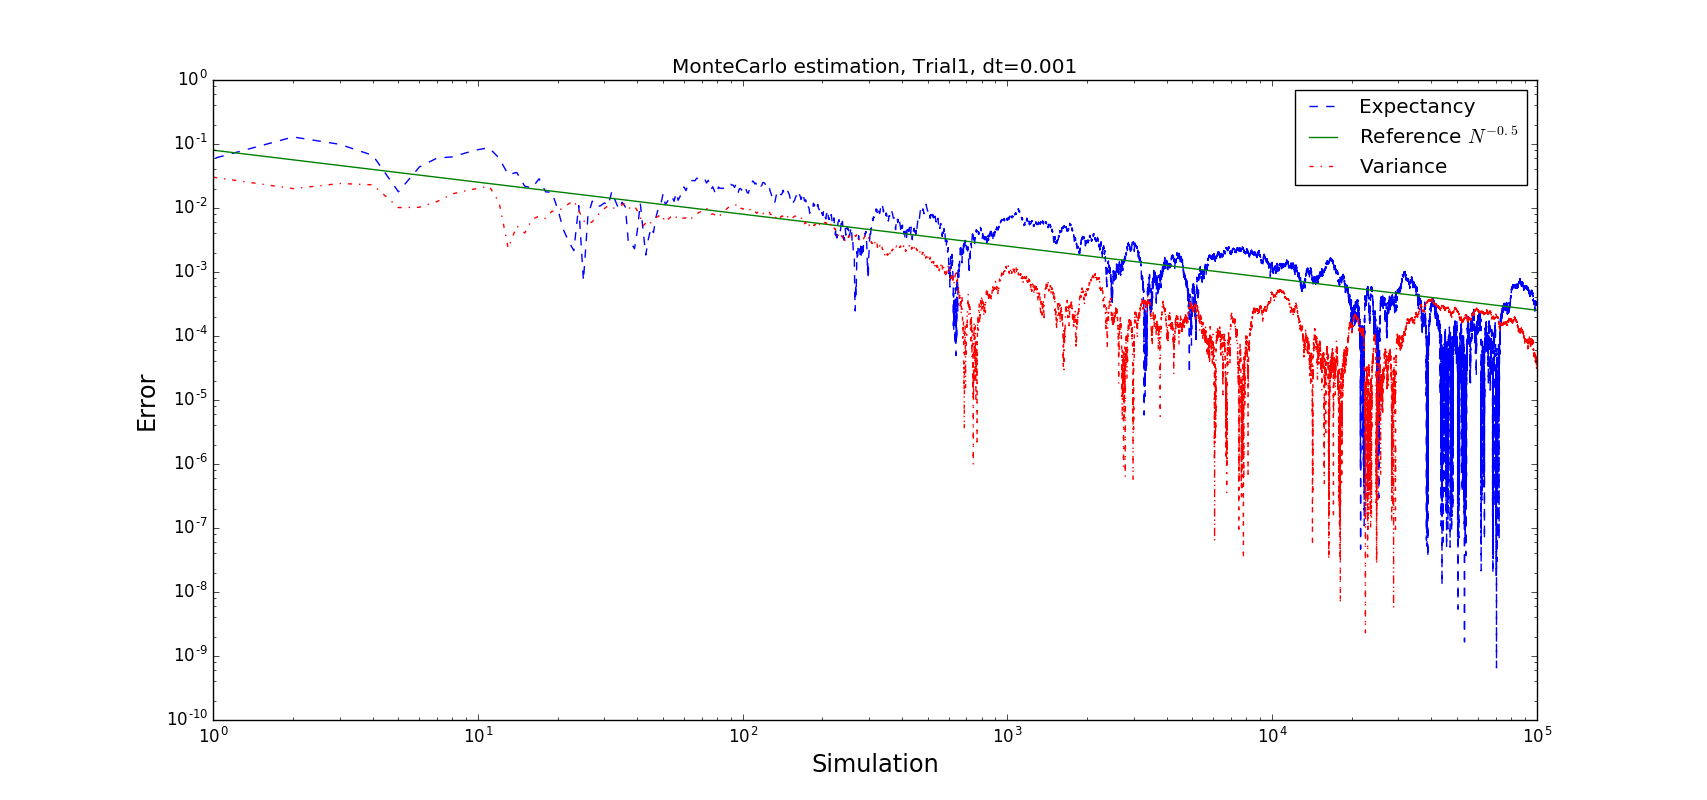
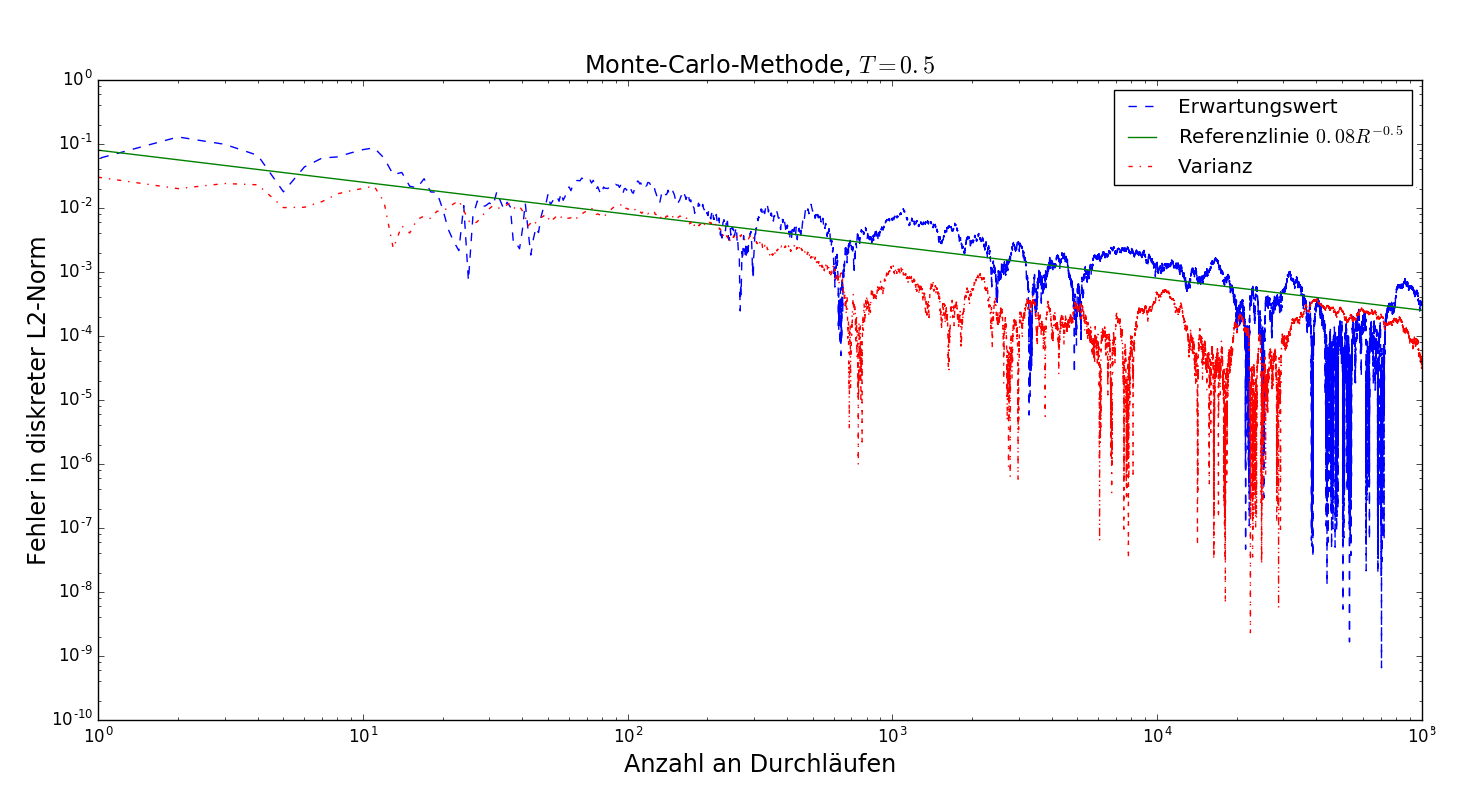
Started explaining fft and wave solver

diff --git a/thesis/tex/Chapters/Chapter1.tex b/thesis/tex/Chapters/Chapter1.tex
@@ -1,7 +1,7 @@
 % Chapter 1
 
 \chapter{Einführung}
-In diesem Kapitel werden wir die zu untersuchende Klein-Gordon-Gleichung (KGG) vorstellen und uns mit den zugehörigen häufig verwendeten Parametern vertraut machen. Anschließend gewinnen wir einen numerischen Lösungsansatz aus der Idee des Operatorsplittings. Um dann später die Zufallsabhängigkeit einführen zu können, benötigen wir die Theorie des General Polynomial Chaos. Die in dieser Arbeit untersuchte \emph{uncertainty} in Gestalt von Zufallsvariablen wird allerdings erst in den folgenden Kapiteln in die KGG einfließen.
+In diesem Kapitel werden wir die zu untersuchende Klein-Gordon-Gleichung (KGG) vorstellen und uns mit den zugehörigen häufig verwendeten Parametern vertraut machen. Anschließend gewinnen wir einen numerischen Lösungsansatz aus der Idee des Operatorsplittings. Die in dieser Arbeit untersuchte \emph{uncertainty} in Gestalt von Zufallsvariablen wird allerdings erst in den folgenden Kapiteln in die KGG einfließen. Zuletzt beschreibt dieses Kapitel relevante Ergebnisse aus der polynomialen Approximationstheorie und bietet einen ersten Einblick in die Beziehung von orthogonalen Polynomen und stochastischen Verteilungen.
 \label{Chapter1}
 
 \section{Die Klein-Gordon-Gleichung}
@@ -234,23 +234,78 @@ Man verwendet die Darstellung $\varphi_{\deltat}^A(y_0)=y_0+\deltat f^A(y_0)+\ma
 Man beachte hierbei, dass nun $\Phi_{\deltat}^A$ im Gegensatz zu $\varphi_{\deltat}^A$ nicht mehr symmetrisch ist. Die Argumentation über die Ordnung von symmetrischen Verfahren kann also nicht direkt verwendet werden, um $p=2$ für das Strang-Splittings zu begründen. Außerdem kann dies die Möglichkeit, das Strang-Splitting durch Kombination der Halbschritte zu beschleunigen, zunichte machen.
 \end{proof}
 
-\section{Erster Einblick in das Polynomial Chaos}
-\todo[inline]{Diese Einführung erst nachdem wir kurz gesagt haben was Polynomial Chaos eigentlich ist. Vllt auch etwas kürzen? So versteht das jemand beim ersten Mal lesen nicht.}
-Die Entstehung des \emph{general Polynomial Chaos}(gPC) ist eine Geschichte über den Versuch, stochastische Abhängigkeit und Integrationstheorie zu kombinieren. Sie wurzelte in der Arbeit von Wiener (\autocite{norbertwiener1938}), wo er das \emph{homogene Chaos} einführte, um die Entwicklung von Unsicherheit in einem dynamischen, chaotischen, physikalischen System zu konkretisieren. Dies erklärt auch den Ursprung der Bezeichnung "`Chaos"' im Kontext der chaotischen Brownschen Bewegung im Wiener-Prozess.\\
-Ghanem verwendete dann Hermite Polynome um mithilfe dieser Orthogonalbasis gaußsche Prozesse darzustellen. Dies wendete er erfolgreich auf einige Probleme aus den Ingenieurswissenschaften an, ein Überblick wird in (\autocite{GhaSpa91}) gegeben.\\
-Xiu verallgemeinerte in seiner Arbeit (\autocite{xiu2002}) diesen Ansatz auf andere Kombinationen aus Stochastischer Verteilung und Polynombasis. Gemäß dem Askey Schema (siehe Abbildung \ref{askeyscheme}) werden Beziehungen einiger bekannter Polynom Orthonormalbasen verdeutlicht. Man beobachtet außerdem, dass einige Gewichte den Dichtefunktionen von bekannten Verteilungen entsprechen und möchte nun zu einer gegebenen Verteilung die bestmögliche Polynombasis verwenden. An Modellproblemen demonstrierte Xiu jeweils optimale exponentielle Konvergenz für die verschiedenen Paarungen.\\
-\begin{figure}
-\center
-\includegraphics[width=0.8\linewidth]{Figures/askeyscheme.png}
-\caption{Askey Schema; Ein Pfeil symbolisiert den Übergang einer Basis in eine andere durch Grenzwertbildung eines Parameters; Quelle: \autocite{webaskey}}
-\label{askeyscheme}
-\end{figure}
-\begin{mathbsp}[Grenzwertbildung im Askey Schema]
-Es gilt für die Jacobi Polynome $P_n^{(\alpha,\beta)}(x)$ und die Hermite Polynome $H_n(x)$ die Beziehung
-\[\lim\limits_{\alpha\to\infty}\alpha^{-\onehalf n}P_n^{(\alpha,\alpha)}\left(\frac{x}{\sqrt{\alpha}}\right)=\frac{H_n(x)}{2^nn!}\]
-Für eine genauere Betrachtung der Beziehungen der hypergeometrischen Polynome im Askey Schema sei auf \autocite{koekoekswart98} verwiesen.
-\end{mathbsp}
-Im Mittelpunkt der Theorie des gPC stehen orthgonale Polynombasen. Die Verflechtung mit der Stochastik geschieht dann auf natürliche Weise durch die passende Wahl des zugrunde liegenden Skalarproduktes.
+\subsection{Numerischer Löser der KGG}
+\todo[inline]{Erkläre Löser, dazu für wave teil: periodische RB-> Fourier, für linhyp: explizite Lösung; Wie Gleichung in gleichung 1. Ordnung erst umschreiben (weight w); wieso nur stabil für w=1?; zeige verschiedene Kombinationen von RStrang, FStrang,... und zeige Konvergenzordnung p=1 und p=2}
+Dieser Abschnitt ist das wichtige Fundament, auf dem viele numerischen Lösungsverfahren basieren werden. Um ein Operator Splitting auf die KGG anwenden zu können, muss diese zuerst in eine Gleichung mit Zeitableitung erster Ordnung in der Form von (\ref{orddgl}) umgeschrieben werden. Formal:
+\begin{align}
+\dtt{u}(t,x)&=\alpha \Laplace u(t,x) - \beta(x)u(t,x)\nonumber\\
+\iff
+\dt{\begin{pmatrix}
+u\\
+v
+\end{pmatrix}}(t,x)&=
+\begin{pmatrix}
+0 & I\\
+\alpha \Laplace - \beta(x) & 0\\
+\end{pmatrix}
+\begin{pmatrix}u\\v\end{pmatrix}(t,x)\\
+&=\left[\begin{pmatrix} 0 & wI\\ \alpha \Laplace & 0\end{pmatrix} 
++ \begin{pmatrix} 0 & (1-w)I\\ -\beta(x) & 0\end{pmatrix}\right]
+\begin{pmatrix}u\\v\end{pmatrix}(t,x)
+\end{align}
+Doch bevor wir dies als Grundlage für ein Splitting verwenden, müssen wir den Operator $\Laplace$ genauer untersuchen.
+\subsubsection*{Fourier Pseudo-Spectral Methode für Laplace Operator}
+Wir betrachten das Teilproblem der Wellengleichung mit periodischen Randbedingungen auf $(-\pi,\pi)^d$ der Dimension $d\in\N$ und dem Quadrat der Wellengeschwindigkeit $c^2=\alpha>0$
+\begin{equation}
+\label{eqn:waveperiodic}
+\begin{split}
+\dtt{u}(t,x)&=c^2 \Laplace u(t,x), \quad t>0, x\in\Torus^d\\
+u(0,x)&=g(x), \quad x\in\Torus^d\\
+\dt{u}(0,x)&=h(x),\quad x\in\Torus^d\\
+u, \dt{u}&\text{ periodisch in }x
+\end{split}
+\end{equation}
+Im Folgenden zeigen wir eine Darstellung der exakten Lösung von (\ref{eqn:waveperiodic}) für $d=1$.\\
+Es gilt für die Fourier-Approximation von $u$ für jedes $t>0$ und $N\in\N$
+\begin{equation}
+u(t,x)\approx \sum_{k=-N}^N\fourier{u}_k(t)e^{ikx}, \quad x\in\Torus^d
+\end{equation}
+für gewisse Koeffizienten $\fourier{u}_k(t)=\int_{-\pi}^\pi u(t,x)e^{ikx}dx\in\Complex$. Setzen wir die Fourier-Approximation als exakte Lösung der Wellengleichung (\ref{eqn:waveperiodic}) ein, so erhalten wir 
+\[\sum_{k=-N}^N\fourier{u}_k^{\prime\prime}(t)e^{ikx}=c^2\sum_{k=-N}^N-k^2\fourier{u}_k(t)e^{ikx}\]
+Da die $e^{ik\cdot}$ eine Basis bilden müssen wir also für $k=-N,\dots,N$ die gewöhnliche Differentialgleichung
+\begin{align*}
+\fourier{u}_k^{\prime\prime}(t)&=-c^2k^2\fourier{u}_k(t)\\
+\fourier{u}_k(0)&=\fourier{g}_k\\
+\fourier{u}_k^\prime &=\fourier{h}_k
+\end{align*}
+lösen, wobei $\fourier{g}_k$ bzw. $\fourier{h}_k$ der $k$-te Fourier-Koeffizient von $g$ bzw. $h$ ist. Aus der charakteristischen Gleichung folgt für zwei Konstanten $c_{1,k},c_{2,k}$ sofort die allgemeine Lösung 
+\[\fourier{u}_k(t)=c_{1,k}\cos(c|k|t)+c_{2,k}\sin(c|k|t)\]
+und unter Berücksichtigung der Anfangswerte
+\begin{align*}
+\fourier{u}_k(t)&=\fourier{g}_k \cos(c|k|t)+\fourier{h}_kt \sinc(c|k|t)\\
+\fourier{u}^\prime_k(t)&=-c|k|\fourier{g}_k\sin(c|k|t)+\fourier{h}_k\cos(c|k|t)\\
+\end{align*}
+Diese Darstellung ist insbesondere auch für $k=0$ gültig, wo der Fourierkoeffizient linear in $t$ wächst.\\
+Formalisieren wir nun die diskrete Fouriertransformation, die wir verwenden möchten, um eine Approximation an die Fourier-Koeffizienten $\fourier{g}_k$ bzw. $\fourier{h}_k$ zu erhalten.
+\begin{mathdef}[Diskrete Fourier-Transformation]
+Die lineare Abbildung $\mathcal{F}\colon\Complex^N\to\Complex^N$ definiert durch
+\[\mathcal{F}x=\fourier{x},\qquad\text{mit}\quad \fourier{x}_k=\sum_{j=0}^{N-1}e^{-2\pi i\frac{jk}{N}}x_j\]
+heißt diskrete Fourier-Transformation.
+\end{mathdef}
+Diese Form der Darstellung erlaubt eine Berechnung der Abbildung in $\mathcal{O}(N\log N)$ Schritten, bekannt unter dem Namen \emph{Fast Fourier Transform}(fft). Dies ist essentiell, um eine schnelle Berechnung der Lösung der KGG zu gewährleisten. Es gilt $\mathcal{F}_N\overline{\mathcal{F}}_N=NI$ und somit hat die inverse Fourier-Transformation beinahe die selbe Gestalt wie die Fourier-Transformation selbst und kann ebenso schnell berechnet werden.\\[0.2cm]
+Zusammengefasst gilt also für die Lösung von (\ref{eqn:waveperiodic}) an den Stellen $x_j=-\pi+2\pi\frac{j}{2N}\in [-\pi,pi)$ für $j=0,\dots,2N-1$ die Darstellung
+\begin{align*}
+u(t,x_j)&=\mathcal{F}^{-1}\left[\mathcal{F}g\odot \big(\cos(c|k|t)\big)_{k=-N}^N + \mathcal{F}h\odot \big(\sinc(c|k|t)\big)_{k=-N}^N\right]_j\\
+\dt{u}(t,x_j)&=\mathcal{F}^{-1}\left[\mathcal{F}g \odot -c\big(|k|\sin(c|k|t)\big)_{k=-N}^N+\mathcal{F}h\odot \big(\cos(c|k|t)\big)_{k=-N}^N\right]_j
+\end{align*}
+Dabei bedeutet $\odot$ die punktweise Multiplikation der Vektoren. Man beachte, dass die Sortierung der Fourier-Koeffizienten in verschiedenen Programmiersprachen verschiedenen Notationen folgt und entsprechend die Indizierung angepasst werden muss. Beispielsweise gilt für die Python3 Bibliothek \emph{numpy} durch die entsprechende Funktion \emph{numpy.fft.fftfreq(8)*8} die Konvention
+\[[ 0,  1,  2,  3, -4, -3, -2, -1]\]
+wobei Matlab die ähnliche Konvention
+\[[ 0,  1,  2,  3, 4, -3, -2, -1]\]
+verwendet.\\
+Obige Erläuterungen waren für eine räumliche Dimension $d=1$. Will man nun den Ansatz auf mehrere Dimensionen erweitern, so erhält man ein sehr ähnliches Ergebnis.\todo[inline]{Schreibe hin dass vorheriges Ergebnis mit betrag k ersetzt durch sqrt(k1hoch2+...+kdhoch2) gilt, alles andere wie Indizierung und FFT enstprechend auch mehrdimensional.}
+\section{Polynome und Verteilungen}
+Die Theorie des general Polynomial Chaos ist die Grundlage für später vorgestellte Verfahren zum Lösen von der stochastischen Klein-Gordon-Gleichung. Im Mittelpunkt dieser Theorie stehen orthogonale Polynombasen. Die Verflechtung mit der Stochastik geschieht dann auf natürliche Weise durch die passende Wahl des zugrunde liegenden Skalarproduktes.
 \subsection{Orthogonale Polynome}
 Wir beginnen mit grundlegender Notation und Namensgebung um das zentrale Werkzeug der Polynomapproximation festzulegen. Später werden diese Polynome verwendet, um die Zufallsabhängigkeit der auftretenden Funktionen darzustellen, indem das Orthogonalitätsmaß der Dichtefunktion entspricht.
 \begin{mathdef}

diff --git a/thesis/tex/Appendices/AppendixA.tex b/thesis/tex/Appendices/AppendixA.tex
@@ -4,6 +4,23 @@
 
 \label{AppendixA} % For referencing this appendix elsewhere, use \ref{AppendixA}
 
+\section{Geschichtliche Entstehung}
+Die Entstehung des \emph{general Polynomial Chaos}(gPC) ist eine Geschichte über den Versuch, stochastische Abhängigkeit und Integrationstheorie zu kombinieren. Sie wurzelte in der Arbeit von Wiener (\autocite{norbertwiener1938}), wo er das \emph{homogene Chaos} einführte, um die Entwicklung von Unsicherheit in einem dynamischen, chaotischen, physikalischen System zu konkretisieren. Dies erklärt auch den Ursprung der Bezeichnung "`Chaos"' im Kontext der chaotischen Brownschen Bewegung im Wiener-Prozess.\\
+Ghanem verwendete dann Hermite Polynome um mithilfe dieser Orthogonalbasis gaußsche Prozesse darzustellen. Dies wendete er erfolgreich auf einige Probleme aus den Ingenieurswissenschaften an, ein Überblick wird in (\autocite{GhaSpa91}) gegeben.\\
+Xiu verallgemeinerte in seiner Arbeit (\autocite{xiu2002}) diesen Ansatz auf andere Kombinationen aus Stochastischer Verteilung und Polynombasis. Gemäß dem Askey Schema (siehe Abbildung \ref{askeyscheme}) werden Beziehungen einiger bekannter Polynom Orthonormalbasen verdeutlicht. Man beobachtet außerdem, dass einige Gewichte den Dichtefunktionen von bekannten Verteilungen entsprechen und möchte nun zu einer gegebenen Verteilung die bestmögliche Polynombasis verwenden. An Modellproblemen demonstrierte Xiu jeweils optimale exponentielle Konvergenz für die verschiedenen Paarungen.\\
+\begin{figure}
+\center
+\includegraphics[width=0.8\linewidth]{Figures/askeyscheme.png}
+\caption{Askey Schema; Ein Pfeil symbolisiert den Übergang einer Basis in eine andere durch Grenzwertbildung eines Parameters; Quelle: \autocite{webaskey}}
+\label{askeyscheme}
+\end{figure}
+\begin{mathbsp}[Grenzwertbildung im Askey Schema]
+Es gilt für die Jacobi Polynome $P_n^{(\alpha,\beta)}(x)$ und die Hermite Polynome $H_n(x)$ die Beziehung
+\[\lim\limits_{\alpha\to\infty}\alpha^{-\onehalf n}P_n^{(\alpha,\alpha)}\left(\frac{x}{\sqrt{\alpha}}\right)=\frac{H_n(x)}{2^nn!}\]
+Für eine genauere Betrachtung der Beziehungen der hypergeometrischen Polynome im Askey Schema sei auf \autocite{koekoekswart98} verwiesen.
+\end{mathbsp}
+
+\section{Auflisting von Polynombasen und Verteilungen}
 Wir präsentieren hier eine Auswahl der von uns verwendeten Orthogonalpolynome, insbesondere ihre Definition, Darstellung als Drei Term Rekursion, Gewichtsfunktion und ihre Beziehung zu stochastischen Verteilungen. Für weitere Eigenschaften wie die Darstellung als Lösung einer Differentialgleichung oder die Rodriguez Formel sei beispielsweise auf den Anhang von \autocite{dongbinxiu2010} verwiesen.\\
 Eine schöne Übersichtstabelle findet sich unter \url{http://dlmf.nist.gov/18.3}, man beachte, dass dort die verwendeten Polynome und Gewichte teilweise von unserer Notation abweichen. Dies ist der Tatsache geschuldet, dass die Beziehung zu Verteilungen und entsprechende Normierungsanforderungen keine Rolle spielen. Ebenso gibt es verschiedene Varianten die untere Grenze für die Parameter $\alpha$ und $\beta$ der Jacobi und Laguerre Polynome zu definieren.\\
 Benötigt man Referenzwerte für Nullstellen und Gewichte einer zugehörigen Gauss Quadratur, so findet sich unter\\\url{http://keisan.casio.com/exec/system/1281279441} ein Onlinerechner. Hierbei sei wieder auf abweichende Notation hingewiesen, insbesondere die fehlende Normierung der Gewichte um einen Faktor.\\
@@ -25,7 +42,7 @@ Zu $r,s\in\N_0$ ist die hypergeometrische Funktion $_rF_s$ definiert durch
 \end{mathdef}
 Für weitere Polynome aus dem Askey Schema (siehe Abbildung \ref{askeyscheme}), insbesondere diese mit diskreten Verteilungen, sei wieder beispielsweise auf \autocite{dongbinxiu2010} verwiesen. \\
 Für eine Methode zum Berechnen der Nullstellen aus der Drei Term Rekursion steht der Golub Welsch Algorithmus (vgl. \ref{golubwelschalg}) zur Verfügung.
-\section{Hermite Polynome und Gauß Verteilung}
+\subsection{Hermite Polynome und Gauß Verteilung}
 Träger:
 \[I=\R\]
 Definition:
@@ -41,7 +58,7 @@ Stochastische Verteilung:
 normalisierte Gauß Verteilung mit Dichtefunktion $\rho(x)=w(x)$
 \end{center}
 
-\section{Laguerre Polynome und Gamma Verteilung}
+\subsection{Laguerre Polynome und Gamma Verteilung}
 Träger:
 \[I=(0,\infty)\]
 Definition:
@@ -58,7 +75,7 @@ Gamma Verteilung mit $\alpha>0,\beta=1$ und Dichtefunktion
 \[\rho(x)=\frac{x^{\alpha-1}e^{-\frac{x}{\beta}}}{\beta^{\alpha}\Gamma(\alpha)}\]
 \end{center}
 
-\section{Jacobi Polynome und Beta Verteilung}
+\subsection{Jacobi Polynome und Beta Verteilung}
 Träger:
 \[I=(-1,1)\]
 Definition:
@@ -87,7 +104,7 @@ Beta Verteilung auf $(-1,1)$ mit $\alpha,\beta>-1$ und Dichtefunktion
 \[\rho(x)=\frac{(1 - x)^\alpha(1 + x)^\beta}{2^{\alpha + \beta + 1}B(\alpha+1,\beta+1)}=w(x),\quad B\text{ ist Eulersche Betafunktion}\]
 \end{center}
 
-\section{Legendre Polynome und Gleichverteilung}
+\subsection{Legendre Polynome und Gleichverteilung}
 \label{seclegendre}
 Als wichtiger Spezialfall der Jacobi Polynome seien die Legendre Polynome an dieser Stelle explizit erwähnt.\\
 Träger:

diff --git a/thesis/tex/Chapters/Chapter2.tex b/thesis/tex/Chapters/Chapter2.tex
@@ -121,6 +121,7 @@ Die Lösung \[u(t,x,y)\colon [0,T]\times\Torus^d\times \R^N\to\R\] ist also eine
 Dabei ist die grundlegende Annahme, dass (\ref{skgg}) $P$-fast-sicher wohl gestellt ist, d.h. die Menge an Punkten $\omega$ für welche die partielle Differentialgleichung mit fixem $y=Y(\omega)$ keine eindeutige Lösung besitzt ist eine Nullmenge bezüglich des Wahrscheinlichkeitmaßes $P$.\\
 Ab sofort werden wir --wie in Kapitel \ref{secfiniteparam} diskutiert-- stets annehmen, dass die Komponenten $Y_i$ von $Y$ stochastisch unabhängige Zufallsvariablen mit bekannter Verteilung sind.
 \begin{mathbsp}
+\label{bsp:trial1}
 Sei $Y=(Y_1)$ eine eindimensionale und in $(2,3)$ gleichverteilte Zufallsvariable. Dann gilt für $t>0$, $d\in\N$, $x=(x_1,\dots$, $x_d)\in\Torus^d$, $\hat{x}\coloneqq \sum_{i=1}^d x_i$ und $y=Y(\omega)$
 \begin{align*}
 u(t,x,y)&=2\cos(ty)\sin(\hat{x})\\
@@ -285,6 +286,19 @@ s_k&=\sum_{j=1}^k(x_j-m_k)^2\stackrel{(\ref{eqn:mcvar2})}{=}\sum_{j=1}^{k-1}(x_j
 Teilen wir nun $s_k$ noch durch $k-1$, so erhalten wir wieder die korrigierte Stichprobenvarianz. Wir benötigen dafür nur den vorherigen Wert $s_{k-1}$, die beiden letzten Mittelwerte, die neuste Stichprobe $x_k$ und die Stichprobenanzahl.
 \subsection{Numerische Ergebnisse}
 Man bemerkt schon an der Pseudocode Darstellung der Monte-Carlo-Methode, dass das Bottleneck des Algorithmus in der Berechnung der Lösung der deterministischen KGG liegt. Der Zeitaufwand für alle anderen Operationen ist in Relation dazu vernachlässigbar klein. Ein großer Vorteil des Algorithmus ist seine \emph{embarrassingly parallel} Eigenschaft: Es ist quasi kein Aufwand nötig die Schleife zu parallelisieren und somit skaliert er perfekt mit der Anzahl an zur Verfügung stehenden Prozessoren. Dies ist eine erste Antwort auf Frage \ref{mcalgspeed}, jedoch sollte klar sein, dass das Lösen des deterministischen Systems dennoch so effizient wie möglich passieren muss. Ein Löser, der nur 0.1 Sekunden für ein einziges System benötigt und $R=100000$ Durchgänge erledigt, läuft bereits etwa 3 Stunden ohne Parallelisierung.\\
-
+\subsubsection*{Konvergenz}
+Anhand von Abbildung \ref{fig:mc_convergence_trial1} erkennen wir für Beispiel \ref{bsp:trial1} die (probabilistische) Konvergenz des Erwartungswertes und der Varianz mit ungefährer Ordnung $0.5$ für die Monte-Carlo-Methode. Vergleichen wir dazu die Quasi-Monte-Carlo-Methode anhand desselben Beispiels in Abbildung \ref{fig:quasi_mc_convergence_trial1}, so erkennen wir eine bessere Konvergenzordnung und ein weniger chaotisches Verhalten des Fehlers.\\
+Diese schlechte Konvergenzordnung macht das Verfahren sehr unattraktiv. Wir benötigen selbst für das simple Beispiel \ref{bsp:trial1} und die Quasi-Monte-Carlo-Methode bereits $R=100000$ Durchläufe für einen Fehler des Erwartungswertes in die Größenordnung $10^{-5}$.
+\begin{figure}
+\includegraphics[width=\textwidth]{Figures/mc_convergence_trial1.png}
+\caption{Konvergenz des Erwartungswertes und der Varianz von Beispiel \ref{bsp:trial1} mithilfe der Monte-Carlo-Methode zum Zeitpunkt $T=0.5$. Ordnungsplot mit Referenzlinie $0.08\frac{1}{\sqrt{R}}$ der erwarteten Ordnung.}
+\label{fig:mc_convergence_trial1}
+\end{figure}\\
+\begin{figure}
+\includegraphics[width=\textwidth]{Figures/quasi_mc_convergence_trial1.png}
+\caption{Konvergenz des Erwartungswertes und der Varianz von Beispiel \ref{bsp:trial1} mithilfe der Quasi-Monte-Carlo-Methode zum Zeitpunkt $T=0.5$. Ordnungsplot mit Referenzlinie $0.08\frac{1}{\sqrt{R}}$.}
+Einen Vorteil allerdings bietet das Verfahren: Unabhängig von der Größe des Zufallsvektors $Y$ erhalten wir jeweils dieselbe Konvergenzordnung und benötigen bis auf die Generierung der Komponenten keinen zeitlichen Mehraufwand für die Ausführung des Algorithmus im Vergleich zu eindimensionalen Zufallsvektoren. Diese Eigenschaft wird von keinem anderen Verfahren, das wir noch vorstellen werden geteilt. Im Gegenteil nämlich wird der Rechenaufwand exponentiell in der Größe des Zufallsvektors steigen. 
+\label{fig:quasi_mc_convergence_trial1}
+\end{figure}
 \todo[inline]{Bilder: Konvergenzordnung von MC anhand von bsp1 und 2; Zeige bessere Ordnung und Fehlerverhalten von qMC; Zeige Konvergenzordnung von Varianz; Zeige was R=100000 so bedeutet im Vergleich zu R=317=sqrt(100000); Erwähne Vorteil dass Konvergenz unabhäng von Dim. von y (zeige entsprechendes BSP)}
 

diff --git a/demo/monte_carlo.py b/demo/monte_carlo.py
@@ -17,13 +17,13 @@ delta_time = 0.001
 start_time = 0.
 stop_time = 0.5
 save_last_solution = False
-simulations_count = 100000
+simulations_count = 10000
 do_quasi_monte_carlo = True
 
 # the factor of the step number between two consecutive solutions used to estimate order of convergence
 order_factor = 10  # >=2, integer
 
-trial = st.trial_1
+trial = st.trial_4
 
 splitting_xs, splitting_xs_mesh, expectancy, variance, expectancy_errors, variance_errors, \
     solutions, solutions_for_order_estimate = \
@@ -60,18 +60,19 @@ elif dimension == 2:
 
 if len(expectancy_errors) > 0 or len(variance_errors) > 0:
     plt.figure()
-    plt.title("{}MonteCarlo estimation, {}, dt={}".format("Quasi" if do_quasi_monte_carlo else "",
-                                                          trial.name, delta_time),
+    print(trial.name)
+    plt.title("{}Monte-Carlo-Methode, $T={}$".format("Quasi-" if do_quasi_monte_carlo else "",
+                                                     stop_time),
               fontsize="x-large")
     if len(expectancy_errors) > 0:
         Ns = np.array(range(len(expectancy_errors)))
-        plt.plot(Ns, expectancy_errors, label="Expectancy")
-        plt.plot(Ns, 0.08 * Ns ** (-0.5), label="Reference $N^{-0.5}$")
+        plt.plot(Ns, expectancy_errors, label="Erwartungswert")
+        plt.plot(Ns, 0.08 * Ns ** (-0.5), label="Referenzlinie $0.08R^{-0.5}$")
     if len(variance_errors) > 0:
-        plt.plot(range(len(variance_errors)), variance_errors, label="Variance")
+        plt.plot(range(len(variance_errors)), variance_errors, label="Varianz")
 
-    plt.xlabel("Simulation", fontsize="x-large")
-    plt.ylabel("Error", fontsize="x-large")
+    plt.xlabel("Anzahl an Durchläufen", fontsize="x-large")
+    plt.ylabel("Fehler in diskreter L2-Norm", fontsize="x-large")
     plt.xscale('log')
     plt.yscale('log')
     plt.legend(loc='best', fontsize="x-large")
